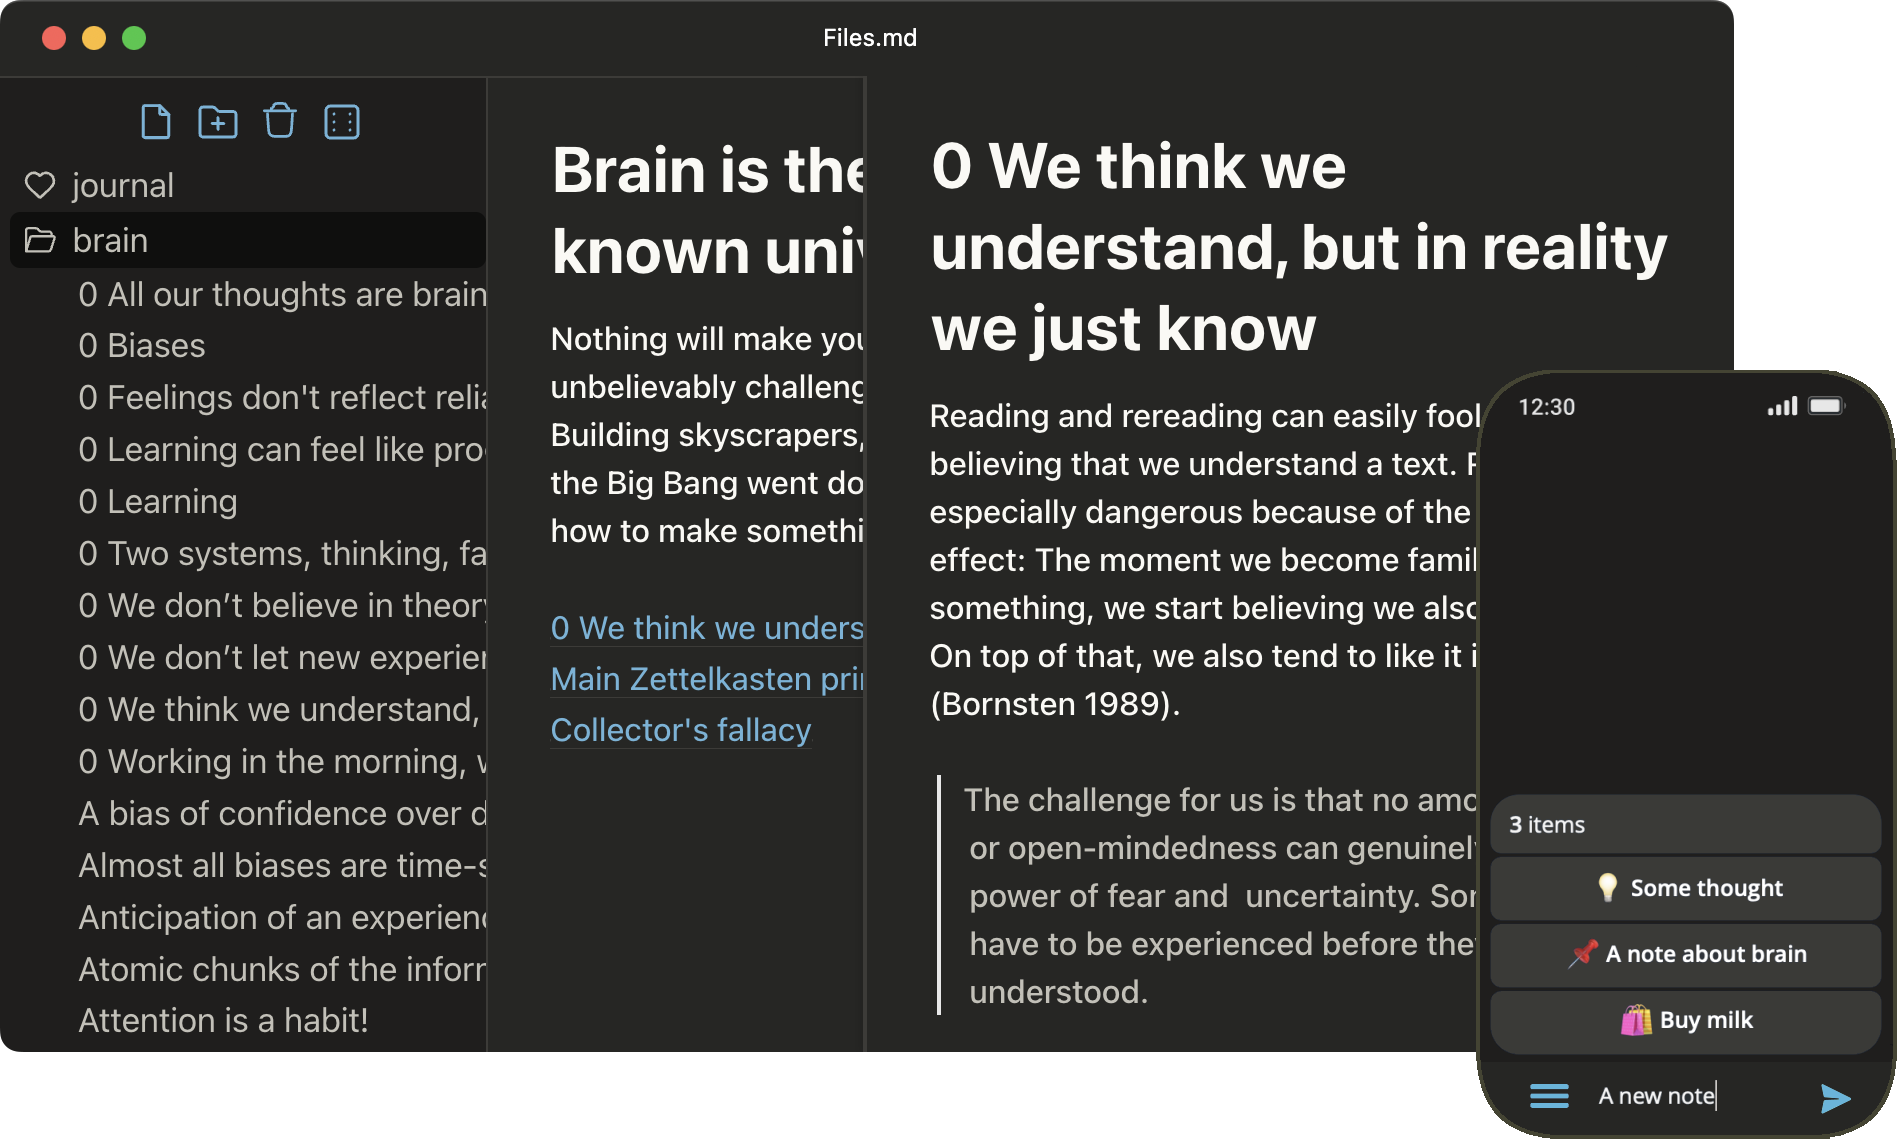
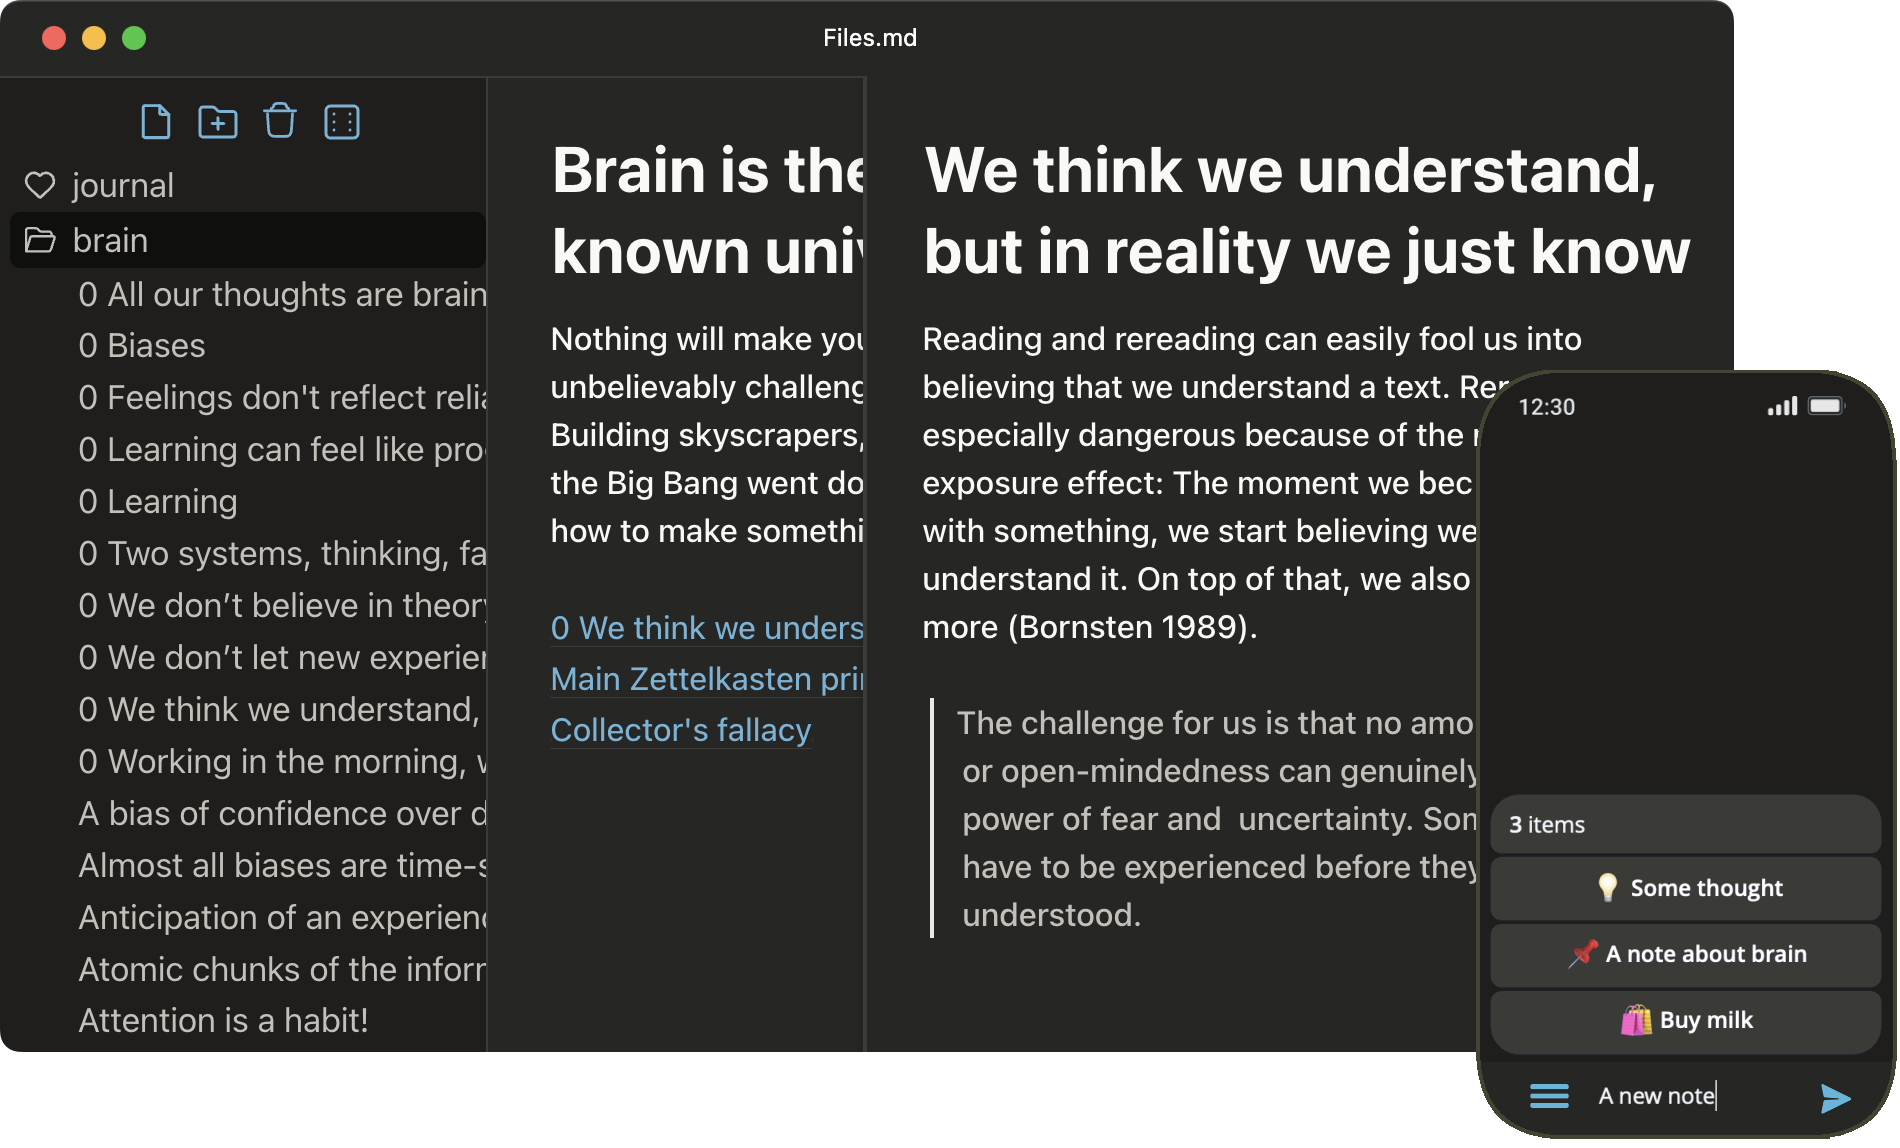
fix blockquotes color

Changed region(s): [[0.4658, 0.2744, 0.8384, 0.8841], [0.4658, 0.122, 0.9005, 0.2439]]

diff --git a/web/lib/theme-brutal.css b/web/lib/theme-brutal.css
@@ -1,0 +1,311 @@
+/* Brutal theme - inspired by Soviet brutalism + Andy Matuschak's notes garden.
+   Paper-cream background, near-black text, monospace italic blockquotes,
+   marker-pen orange highlight on links, heavy bold for emphasis. Cloned
+   from theme-light.css and re-skinned; structure stays identical so the
+   editor wiring is unaffected. */
+/* Palette is applied regardless of system color scheme - brutal overrides
+   both light and dark defaults. Loaded INSTEAD of theme-light.css; comment
+   out theme-dark.css too if it's still linked or it'll fight on dark OS.
+   Neo-* colors follow the reference palette from
+   https://rustamagamaliev.ru — paper bg + lime/orange/blue accents. */
+:root {
+    --font: 'Space Mono', monospace !important;
+    --font-mono-brutal: 'Space Mono', 'IBM Plex Mono', ui-monospace, 'Courier New', Courier, monospace;
+    --color-neo-bg: #F4F4F0;
+    --color-neo-text: #1A1A1A;
+    --color-neo-border: #000;
+    --color-neo-blue: #2E5CFF;
+    --color-neo-lime: #C2F970;
+    --color-neo-orange: #FF6B35;
+    --col-tx: #1A1A1A !important;
+    --col-tx-alt: #6B6B5C !important;
+    --col-bg: #F4F4F0 !important;
+    --col-bg-alt: #EDEDE5 !important;
+    --col-inline-code: #1A1A1A !important;
+    --col-inline-code-bg: #E5E5DC !important;
+    --col-link: #1A1A1A !important;
+    --col-link-hover: #1A1A1A !important;
+    --col-url: #6B6B5C !important;
+    --col-tx-sel: #000 !important;
+    --col-msg-sel: color-mix(in srgb, #000, transparent 60%) !important;
+    --col-bg-active: #E0E0D8 !important;
+    --col-border: #000 !important;
+    --col-marker: var(--color-neo-orange);
+    --col-accent: #000;
+}
+
+@media (prefers-color-scheme: light) {
+    :root {
+        /* explicit empty: unconditional :root above already covers light. */
+    }
+
+    .cm-s-hypermd-light span.cm-formatting-task {
[1 lines of base64/hex data omitted]
+    }
+
+    .to-recent-btn, .action-btn svg {
+        fill: var(--col-tx-alt);
+        color: var(--col-tx-alt) !important;
+        stroke: var(--col-tx-alt) !important;
+    }
+
+    .to-recent-btn:hover, .action-btn:hover svg {
+        fill: var(--col-accent);
+        color: var(--col-accent) !important;
+        stroke: var(--col-accent) !important;
+    }
+
+    #toolbar svg {
+        stroke: var(--col-tx) !important;
+    }
+
+    #toolbar button:hover svg {
+        border-radius: 0;
+        stroke: var(--col-accent) !important;
+        background: var(--col-bg-active);
+    }
+
+    #close-chat, #fullscreen-chat {
+        color: var(--col-tx-alt) !important;
+    }
+
+    #open-inbox-modal:hover svg {
+       stroke: var(--col-accent) !important;
+    }
+
+    #close-chat:hover, #fullscreen-chat:hover {
+        color: var(--col-accent) !important;
+    }
+
+    #open-inbox-modal svg {
+        stroke: #F5F5F5 !important;
+    }
+
+    #close-sidebar, #close-editor2, #go-forward svg, #go-backward svg {
+        color: var(--col-tx-alt) !important;
+        stroke: var(--col-tx-alt) !important;
+    }
+
+    #close-sidebar:hover, #close-editor2:hover, #go-forward:hover svg, #go-backward:hover svg {
+        color: var(--col-accent) !important;
+        stroke: var(--col-accent) !important;
+    }
+
+    #open-sidebar {
+        background: var(--col-bg-active);
+    }
+
+    .message.own {
+        background: color-mix(in srgb, var(--col-bg) 60%, transparent);
+    }
+}
+
+/* Headers: heavy weight + a hard black rule under H1 / H2, brutalist style. */
+.cm-s-hypermd-light .cm-header.cm-header-1 {
+    font-size: 32px !important;
+    line-height: 38px !important;
+    font-weight: 700 !important;
+}
+
+.cm-s-hypermd-light pre.HyperMD-header.HyperMD-header-1 {
+    padding-top: 18px !important;
+    border-bottom: 1.5px solid var(--col-border);
+    padding-bottom: 6px !important;
+}
+
+.cm-s-hypermd-light .CodeMirror-code > pre.HyperMD-header.HyperMD-header-1:first-child,
+.cm-s-hypermd-light .CodeMirror-code > :first-child pre.HyperMD-header.HyperMD-header-1 {
+    padding-top: 0 !important;
+    padding-bottom: 11px !important;
+}
+
+.cm-s-hypermd-light pre.HyperMD-header.HyperMD-header-2 {
+    padding-top: 18px !important;
+    font-size: 24px !important;
+    line-height: 30px !important;
+    font-weight: 700 !important;
+}
+
+.cm-s-hypermd-light pre.HyperMD-header.HyperMD-header-3 {
+    padding-top: 16px !important;
+    font-size: 22px !important;
+    line-height: 28px !important;
+    font-weight: 700 !important;
+}
+
+.cm-s-hypermd-light pre.HyperMD-header.HyperMD-header-4 {
+    padding-top: 14px !important;
+    font-size: 20px !important;
+    line-height: 26px !important;
+    font-weight: 700 !important;
+}
+
+.cm-s-hypermd-light pre.HyperMD-header.HyperMD-header-5 {
+    padding-top: 12px;
+    font-size: 18px;
+    line-height: 24px !important;
+    font-weight: 700 !important;
+}
+
+.cm-s-hypermd-light pre.HyperMD-header.HyperMD-header-6 .cm-header-6 {
+    padding-top: 12px;
+    font-size: 16px;
+    font-weight: 700;
+    line-height: 22px;
+}
+
+.cm-s-hypermd-light .cm-header {
+    font-family: 'Inter', sans-serif !important;
+    font-weight: 700;
+    text-transform: uppercase;
+    letter-spacing: 0.02em;
+}
+
+.cm-s-hypermd-light .cm-strong, .cm-s-hypermd-light span.cm-url {
+    font-family: var(--font) !important;
+    font-weight: 400;
+}
+
+.cm-s-hypermd-light span.cm-formatting-list-ol {
+    color: var(--col-tx-alt) !important;
+}
+
+/* Heavy bold - brutalist emphasis. */
+.cm-s-hypermd-light .cm-strong {
+    font-weight: 800;
+}
+
+.cm-s-hypermd-light pre.HyperMD-list-line {
+    padding-top: 0 !important;
+}
+
+.cm-s-hypermd-light span.cm-url:not(.cm-string) {
+    color: var(--col-url) !important;
+    font-weight: 400;
+}
+
+/* Link default: classic blue + thin underline, no marker bg. */
+.cm-s-hypermd-light .cm-link,
+.cm-s-hypermd-light .cm-string.cm-url.cm-hmd-barelink {
+    line-height: 1.6 !important;
+    color: var(--color-neo-blue) !important;
+    background: transparent !important;
+    border-bottom: 1px solid var(--color-neo-blue) !important;
+    font-weight: 500;
+    box-decoration-break: clone;
+    -webkit-box-decoration-break: clone;
+    transition: background .15s, color .15s;
+}
+
+/* Selected (cursor on the line) or hover: lime-green chip + blue text,
+   no underline. CodeMirror tags the active line's pre with
+   `.CodeMirror-activeline`. */
+.cm-s-hypermd-light pre.CodeMirror-activeline .cm-link,
+.cm-s-hypermd-light pre.CodeMirror-activeline .cm-string.cm-url.cm-hmd-barelink,
+.cm-s-hypermd-light .cm-link:hover,
+.cm-s-hypermd-light .cm-string.cm-url.cm-hmd-barelink:hover {
+    background: var(--color-neo-lime) !important;
+    color: var(--color-neo-blue) !important;
+    border-bottom: none !important;
+}
+
+/* Blockquote: soft light-blue gradient strip with a thick neo-blue left
+   bar. Mirrors the `.prose blockquote` style from the brutal reference. */
+.cm-s-hypermd-light pre.HyperMD-quote {
+    font-family: var(--font-mono-brutal) !important;
+    color: var(--col-tx) !important;
+    background: linear-gradient(135deg, #F8FAFC, #F1F5F9) !important;
+}
+
+.cm-s-hypermd-light pre.HyperMD-quote-1:before {
+    background: var(--color-neo-blue) !important;
+    width: 4px !important;
+}
+
+.cm-s-hypermd-light span.cm-quote {
+    color: var(--col-tx) !important;
+}
+
+/* Inline code: lime-green chip with bold mono text and a thin dark
+   outline. Lifted from the brutal reference's `.prose code`. */
+.cm-s-hypermd-light span.cm-inline-code:not(.cm-formatting):not(.cm-hmd-indented-code) {
+    font-family: var(--font-mono-brutal) !important;
+    background: var(--color-neo-lime) !important;
+    color: #1A1A1A !important;
+    border: 1px solid rgba(0, 0, 0, 0.1) !important;
+    border-radius: 4px !important;
+    padding: 0.2em 0.5em !important;
+    font-weight: 600 !important;
+    font-size: 0.9em !important;
+}
+
+/* Codeblocks: paper-darker background, sharp edges, mono font. */
+.cm-s-hypermd-light div.HyperMD-codeblock-bg {
+    background: var(--col-bg-alt) !important;
+    border-left: 4px solid var(--col-border) !important;
+    border-right: none !important;
+    border-radius: 0 !important;
+}
+
+.cm-s-hypermd-light pre.HyperMD-codeblock {
+    font-family: var(--font-mono-brutal) !important;
+}
+
+/* Horizontal rule: hard solid bar - core brutalist motif. */
+.cm-s-hypermd-light pre.HyperMD-hr {
+    color: var(--col-border) !important;
+    background: transparent !important;
+}
+
+.cm-s-hypermd-light div.HyperMD-hr-bg {
+    background: var(--col-border) !important;
+    height: 2px !important;
+}
+
+/* Text selection: black highlight + white text. CodeMirror draws the
+   selection as an overlay div behind text; ::selection on the actual
+   span layer handles the white text-color. -webkit-text-fill-color is
+   the override that beats the `color: ... !important` set on cm-* spans
+   in some Chromium versions. */
+::selection,
+*::selection {
+    background: #000 !important;
+    color: #FFF !important;
+    -webkit-text-fill-color: #FFF !important;
+}
+::-moz-selection,
+*::-moz-selection {
+    background: #000 !important;
+    color: #FFF !important;
+}
+.CodeMirror-selected,
+.CodeMirror-focused .CodeMirror-selected {
+    background: #000 !important;
+}
+
+/* Sidebar tree: brutalist palette. Mono font, blue on hover (focused),
+   orange on selected (current open file). Selectors match sidebar.css's
+   structure so they win without going nuclear with `!important`. */
+#sidebar,
+#sidebar .tree-container,
+#sidebar .tree-item {
+    font-family: 'IBM Plex Mono', monospace !important;
+}
+
+.tree-container li span.tree-item:hover {
+    background-color: var(--color-neo-blue) !important;
+    color: #FFF !important;
+}
+.tree-container li span.tree-item:hover .tree-mod_icon svg {
+    stroke: #FFF !important;
+}
+
+.tree-container span.tree-item.selected,
+.tree-container span.tree-item.selected:hover {
+    background-color: var(--color-neo-orange) !important;
+    color: #1A1A1A !important;
+}
+.tree-container span.tree-item.selected .tree-mod_icon svg,
+.tree-container span.tree-item.selected:hover .tree-mod_icon svg {
+    stroke: #1A1A1A !important;
+}

diff --git a/web/index.html b/web/index.html
@@ -14,8 +14,8 @@
     <link href="lib/sidebar.css?v=" rel="stylesheet">
     <link href="lib/codemirror.css?v=" rel="stylesheet">
     <link href="lib/hypermd.css?v=" rel="stylesheet">
-    <link href="lib/theme-light.css?v=" rel="stylesheet">
-    <link href="lib/theme-dark.css?v=" rel="stylesheet">
+<!--    <link href="lib/theme-light.css?v=" rel="stylesheet">-->
+    <link href="lib/theme-brutal.css?v=" rel="stylesheet">
     <link href="chat.css?v=" rel="stylesheet">
     <script src="lib/sidebar.js?v="></script>
     <script src="lib/codemirror.js?v="></script>